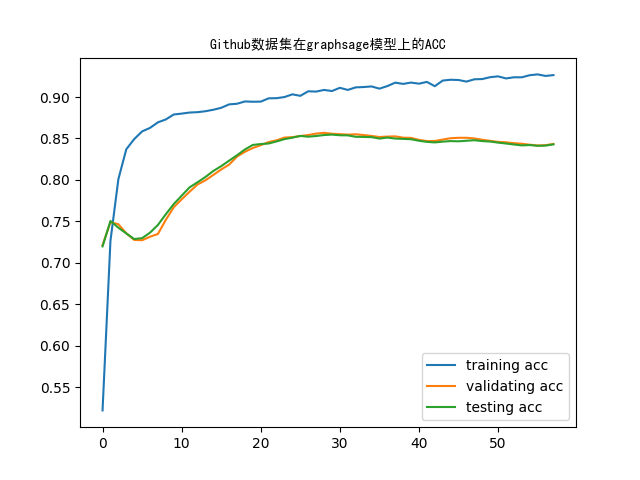
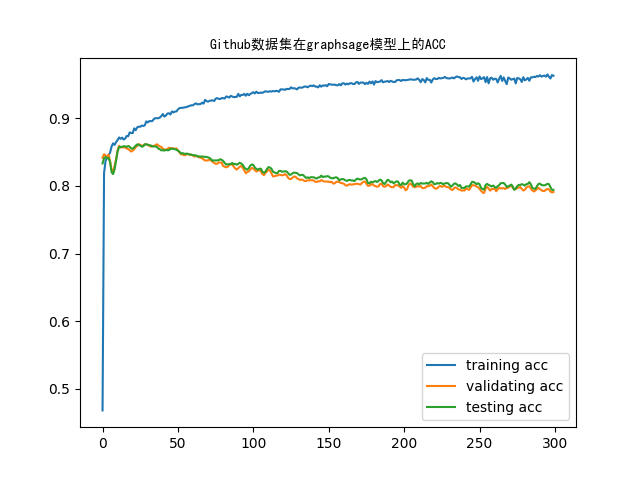
1. 修改浅拷贝的bug。2. 新增可以关闭早停机制的功能。3. 输出图片（ACC、loss曲线、特征二维图像）

diff --git a/run_example1.py b/run_example1.py
@@ -5,24 +5,26 @@ from initial_params import InitialParameters
 
 import random
 
-cuda_index=2
+cuda_index=1
 
 learning_rate=0.01
 epoch=300
 
 #随机生成seed_number个整数作为种子，跑模型：
-seed_number=10
+seed_number=1
 #seeds=[88444839, 57044214, 61447882, 85447514, 49198713, 74564747, 16901785, 9209019, 82043533, 13271186]
 seeds=[random.randint(0,100000000) for i in range(seed_number)]
 
+"""
 file_handle=open('whj_code2/integration_experiment/run_example1_output.out',
                 mode='a')  #追加
-file_handle.write('GAT参数改为(8,8)→(_,1)，重新运行GAT模型，lr0.01+epoch300+10，无向图:\n')
+file_handle.write('我发现我有bug，我死了，我重跑一遍，lr0.01+epoch300+10，无向图:\n')
+"""
 
 for dn in [0,2,3]:  #遍历数据集
     d=InitialParameters.dataset_name_root_map[dn]
-    file_handle.write(d['dataset_name'])
-    for i in [3]:  #遍历模型
+    #file_handle.write(d['dataset_name'])
+    for i in range(6):  #遍历模型
         #print(d)
         #print(i)
         #上述两个主要可用于监测可能发生的在某一步报bug（比如GPU被挤出去了（help me））
@@ -32,16 +34,20 @@ for dn in [0,2,3]:  #遍历数据集
                 acc_dict=experiment(model_init_param=InitialParameters.default_init_params[i],
                                     dataset_split_seed=seed,
                                     model_name=InitialParameters.model_names[i],
-                                    to_undirected_graph=True,
+                                    to_undirected_graph=False,
                                     learning_rate=learning_rate,epoch=epoch,
+                                    pics_root='whj_code2/integration_experiment/pics/di',
+                                    print_pics=True,pics_name='di_'+d['dataset_name']+InitialParameters.model_names[i]+'.png',
+                                    vis_feat=True,feat_pic_names_prefix='di_'+d['dataset_name']+InitialParameters.model_names[i],
                                     cuda_index=cuda_index,**d)
                 acc_list.append(acc_dict['ACC'])
-            file_handle.write('\t'+str(round(sum(acc_list)/seed_number,3)))
+            #file_handle.write('\t'+str(round(sum(acc_list)/seed_number,3)))
         except RuntimeError:  #一般来说就是OOM了……
-            file_handle.write('\tOOM')
+            #file_handle.write('\tOOM')
+            pass
     
     #MLP+C&S
-    #"""
+    """
     acc_list=[]
     for seed in seeds:  #遍历seed_number个数据集划分
         acc_dict=experiment(model_init_param={'num_layers':3,'hidden_unit':64,'dropout_rate':0.5},
@@ -53,8 +59,8 @@ for dn in [0,2,3]:  #遍历数据集
                             cuda_index=cuda_index,**d)
         acc_list.append(acc_dict['ACC'])
     file_handle.write('\t'+str(round(sum(acc_list)/seed_number,3)))
-    #"""
+    """
 
-    file_handle.write('\n')
+    #file_handle.write('\n')
         
-file_handle.close()
+#file_handle.close()

diff --git a/itexperiments.py b/itexperiments.py
@@ -18,6 +18,8 @@ from sklearn import metrics
 
 import matplotlib.pyplot as plt
 
+from copy import deepcopy
+
 def experiment(model_init_param:dict,
                 task:str='node_prediction',
                 dataset_name:str='Github',
@@ -33,6 +35,7 @@ def experiment(model_init_param:dict,
                 learning_rate:int=0.1,
                 epoch:int=50,
                 early_stopping:int=10,
+                implement_early_stopping:bool=True,
                 post_cs:bool=False,
                 cs_param:dict=None,
                 to_undirected_graph:bool=False,
@@ -69,6 +72,7 @@ def experiment(model_init_param:dict,
         TODO：默认值咋整？可以通过配置文件输入一套固定的参数？或者模型本来就内置一套固定的默认参数？
         TODO:让我想想这块怎么写比较靠谱。以及参考一下CogDL的实现
     model_forward_param:model.forward()中额外传入的参数（感觉应该不需要，但是先把位置留出来）
+    implement_early_stopping：是否应用早停机制
     post_cs:要不要在已有的predictor基础上加correct and smooth
         TODO:感觉把它放在这里怪怪的！！！
             但是我一时之间也不知道不放这里还能放哪里！！！
@@ -168,10 +172,10 @@ def experiment(model_init_param:dict,
         loss.backward()
         optimizer.step()
 
-        test_dict=test(model,model_forward_param,y,val_mask)
-        val_acc=test_dict['ACC']
+        val_dict=test(model,model_forward_param,y,val_mask)
+        val_acc=val_dict['ACC']
         val_accs.append(val_acc)
-        val_loss=criterion(test_dict['test_op'][val_mask],y[val_mask])
+        val_loss=criterion(val_dict['test_op'][val_mask],y[val_mask])
         val_losses.append(val_loss.item())
 
         test_dict=test(model,model_forward_param,y,test_mask)
@@ -186,14 +190,25 @@ def experiment(model_init_param:dict,
         if val_loss<=before_lowest_val_loss:
             early_stopping_count=0
             before_lowest_val_loss=val_loss
-            best_model=model.state_dict()
-        else:
+            best_model=deepcopy(model.state_dict())
+            #print('epoch'+str(i))
+            #print('test_acc'+str(test_dict['ACC']))
+            #print(model.training)
+            #for p in model.parameters():
+            #    print(p)
+            #    break
+        elif implement_early_stopping:
             early_stopping_count+=1
             if early_stopping_count>early_stopping:
+                #print('epoch'+str(i))
                 break
     
     model.load_state_dict(best_model)
-    metric_result=test(model,model_forward_param,y,data.test_mask)
+    #print(model.training)
+    #for p in model.parameters():
+    #    print(p)
+    #    break
+    metric_result=test(model,model_forward_param,y,test_mask)
 
     if not post_cs:
         #print('ACC:'+str(round(test_acc['ACC'],3)))
